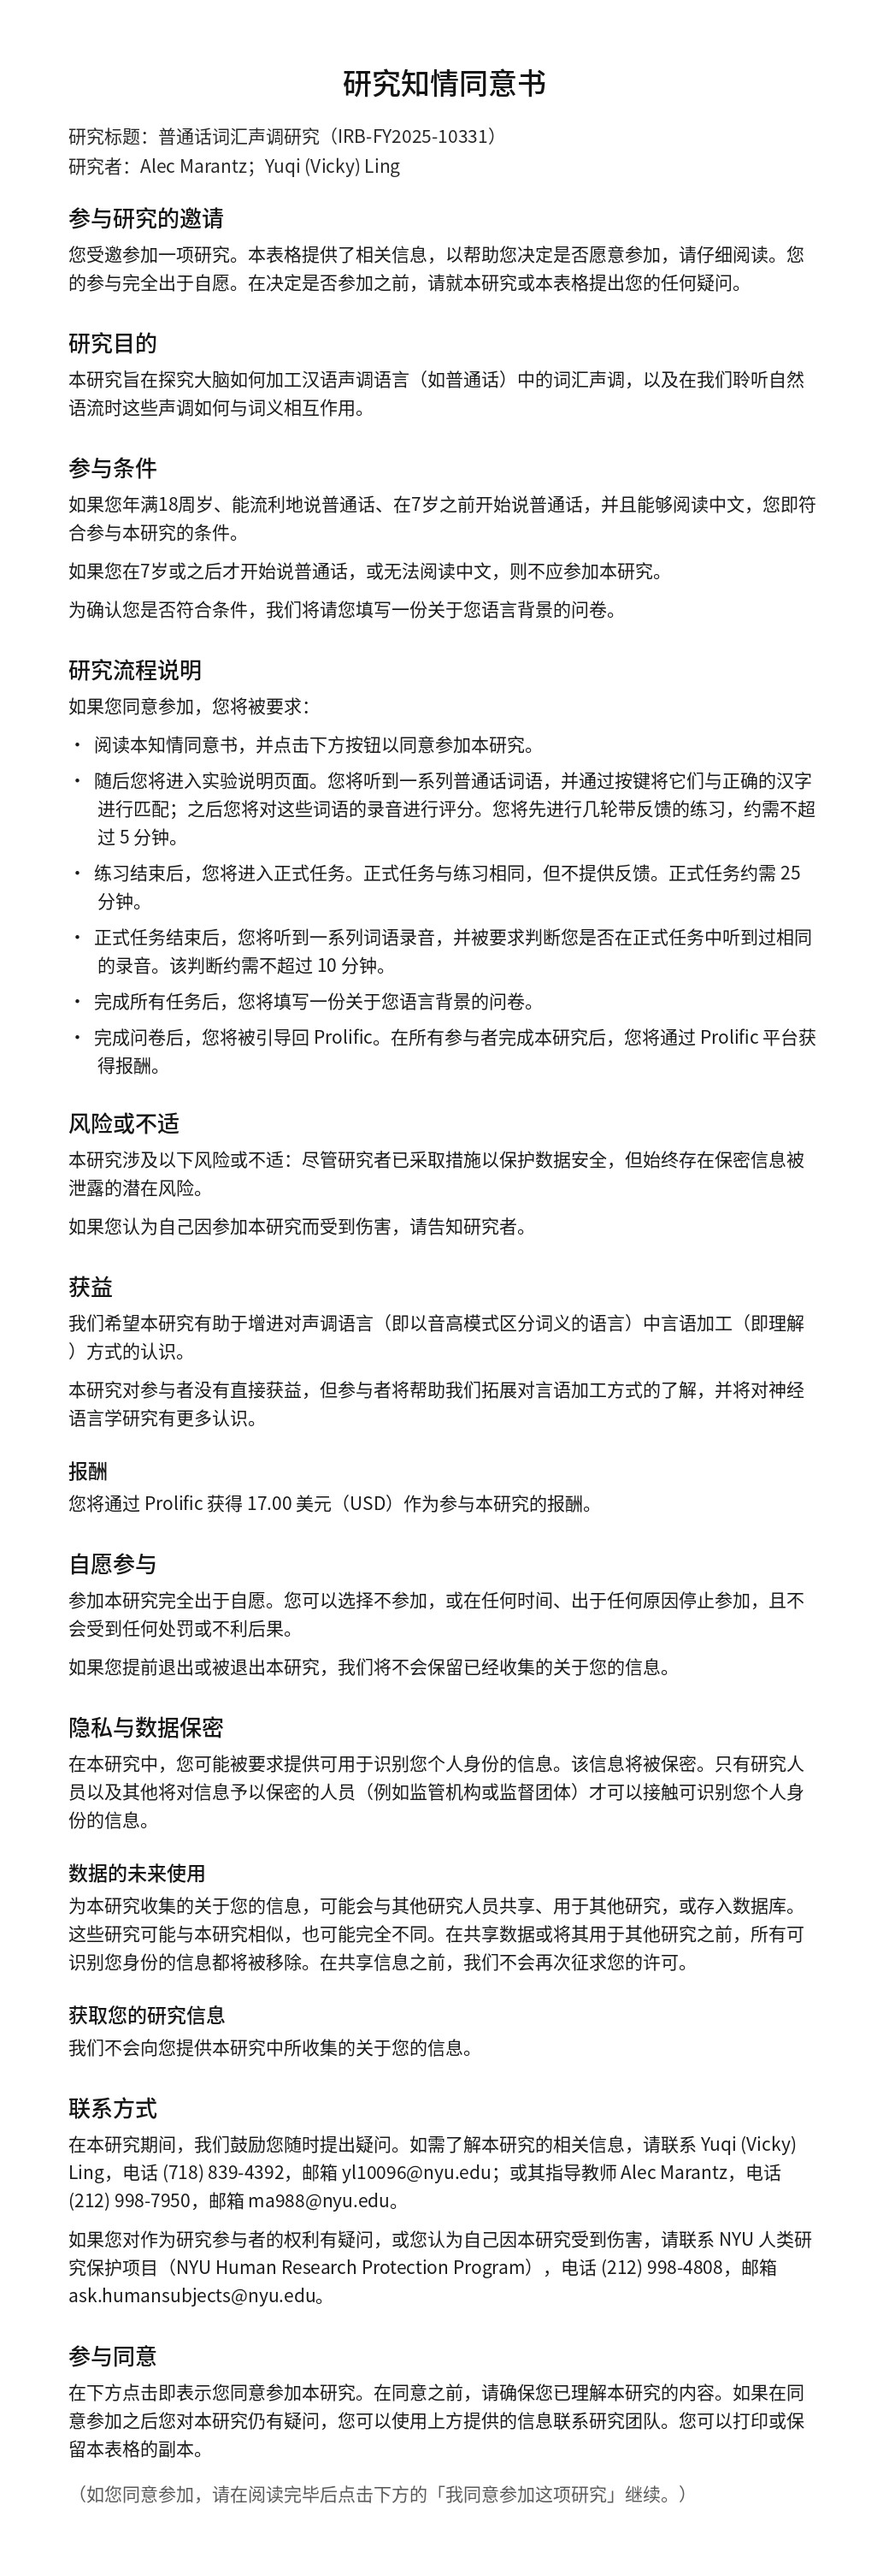
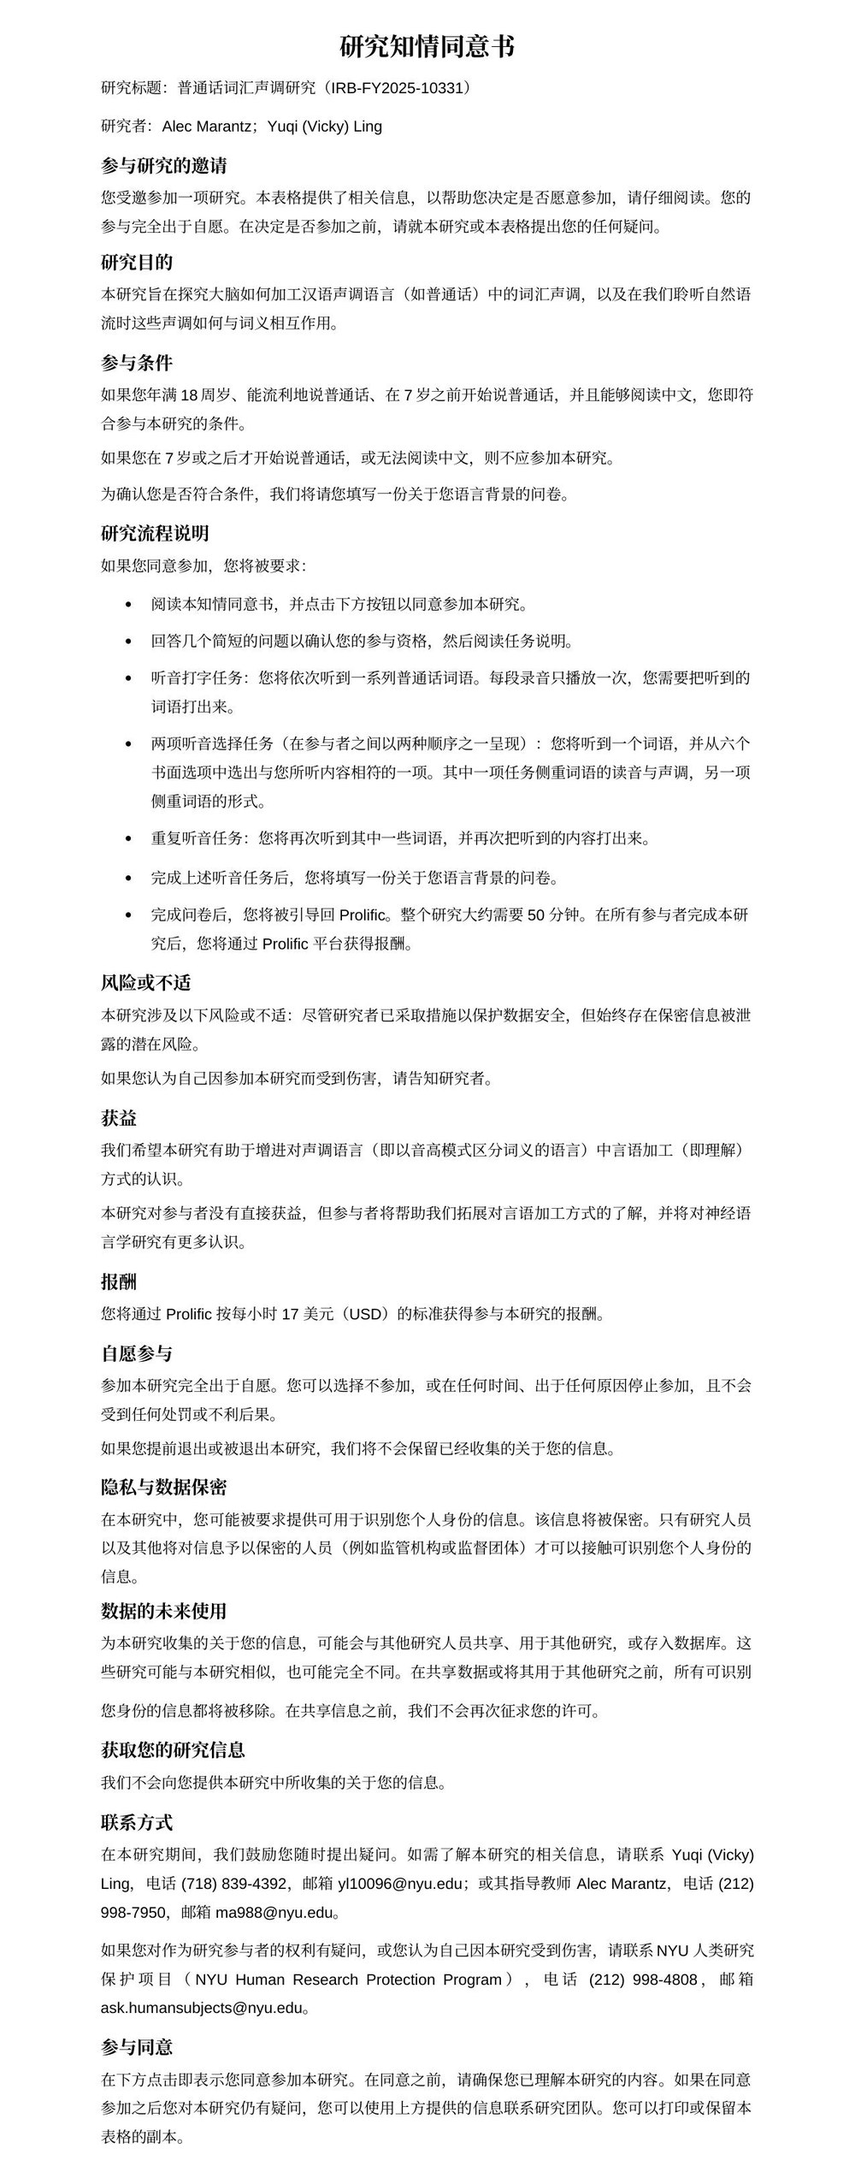
commit 3

Changed region(s): [[0.062, 0.0, 0.93, 0.9929], [0.868, 0.1862, 0.899, 0.2172]]

diff --git a/experiment.js b/experiment.js
@@ -64,14 +64,15 @@ window.playBeep = playBeep;   // so the in-stimulus button can call it
 
 /* =============================== FRONT MATTER =============================== */
 
-/* consent (image) */
+/* consent (image shown in a bordered, scrollable box) */
 timeline.push({
   type: jsPsychSurveyMultiChoice,
   preamble: `
-    <div style="text-align:center;">
-      <img src="resources/consentform.jpg" alt="Consent Form" style="max-width:100%; height:auto;">
+    <div style="border:1px solid #999; border-radius:6px; max-width:820px; max-height:62vh;
+                overflow-y:auto; margin:16px auto; padding:18px; text-align:center; background:#fff;">
+      <img src="resources/consentform.jpg" alt="知情同意书" style="max-width:100%; height:auto;">
     </div>
-    <p>请阅读以上知情同意书。您必须同意才能参加。</p>`,
+    <p style="max-width:820px; margin:12px auto;">请阅读以上知情同意书（可在框内向下滚动）。您必须同意才能参加。</p>`,
   questions: [{
     prompt: "我是否同意参加这项研究？",
     name: "consent", options: ["我同意参加这项研究"], required: true
@@ -201,14 +202,12 @@ function makeForcedChoice(row) {
     type: jsPsychHtmlButtonResponse,
     stimulus: "<p>准备好后，请点击下方按钮开始播放音频。</p>",
     choices: ["▶ 开始"],
-    button_html: '<button class="jspsych-btn fc-start">%choice%</button>',
     data: rowMeta(row, { phase: "fc_start" })
   };
   const choice = {
     type: jsPsychAudioButtonResponse, stimulus: row.audio,
     prompt: "<p>请选择您听到的词语。</p>",
     choices: options.map(o => o.text),
-    button_html: '<button class="jspsych-btn fc-option">%choice%</button>',
     response_allowed_while_playing: false,
     margin_vertical: "0px", margin_horizontal: "0px",
     extensions: [{ type: jsPsychExtensionMouseTracking, params: { targets: FC_BTN_SELECTORS } }],

diff --git a/index.html b/index.html
@@ -46,19 +46,28 @@
   -->
 
   <style>
+    /* larger type overall */
+    .jspsych-display-element { font-size: 21px; }
+    .jspsych-content { max-width: 92%; line-height: 1.7; }
+
     /* six forced-choice options at FIXED positions: 3 top, 3 bottom */
     #jspsych-audio-button-response-btngroup {
       display: grid;
       grid-template-columns: repeat(3, 1fr);
       grid-template-rows: repeat(2, 1fr);
       gap: 48px 64px;
-      width: min(820px, 90vw);
+      width: min(860px, 92vw);
       margin: 56px auto;
       justify-items: center; align-items: center;
     }
-    .fc-option { font-size: 1.9rem; padding: 18px 26px; min-width: 140px; border-radius: 12px; }
-    .fc-start  { font-size: 1.4rem; padding: 16px 34px; border-radius: 12px; }
+    #jspsych-audio-button-response-btngroup .jspsych-btn {
+      font-size: 2.1rem; padding: 20px 30px; min-width: 150px; border-radius: 12px;
+    }
+    /* single centered buttons (start / beep / completion) */
     #jspsych-html-button-response-btngroup { display: flex; justify-content: center; margin-top: 40px; }
+    #jspsych-html-button-response-btngroup .jspsych-btn {
+      font-size: 1.5rem; padding: 16px 36px; border-radius: 12px;
+    }
   </style>
 
   <!-- our logic. survey_language_background.js DEFINES pushLanguageBackgroundSurvey();
